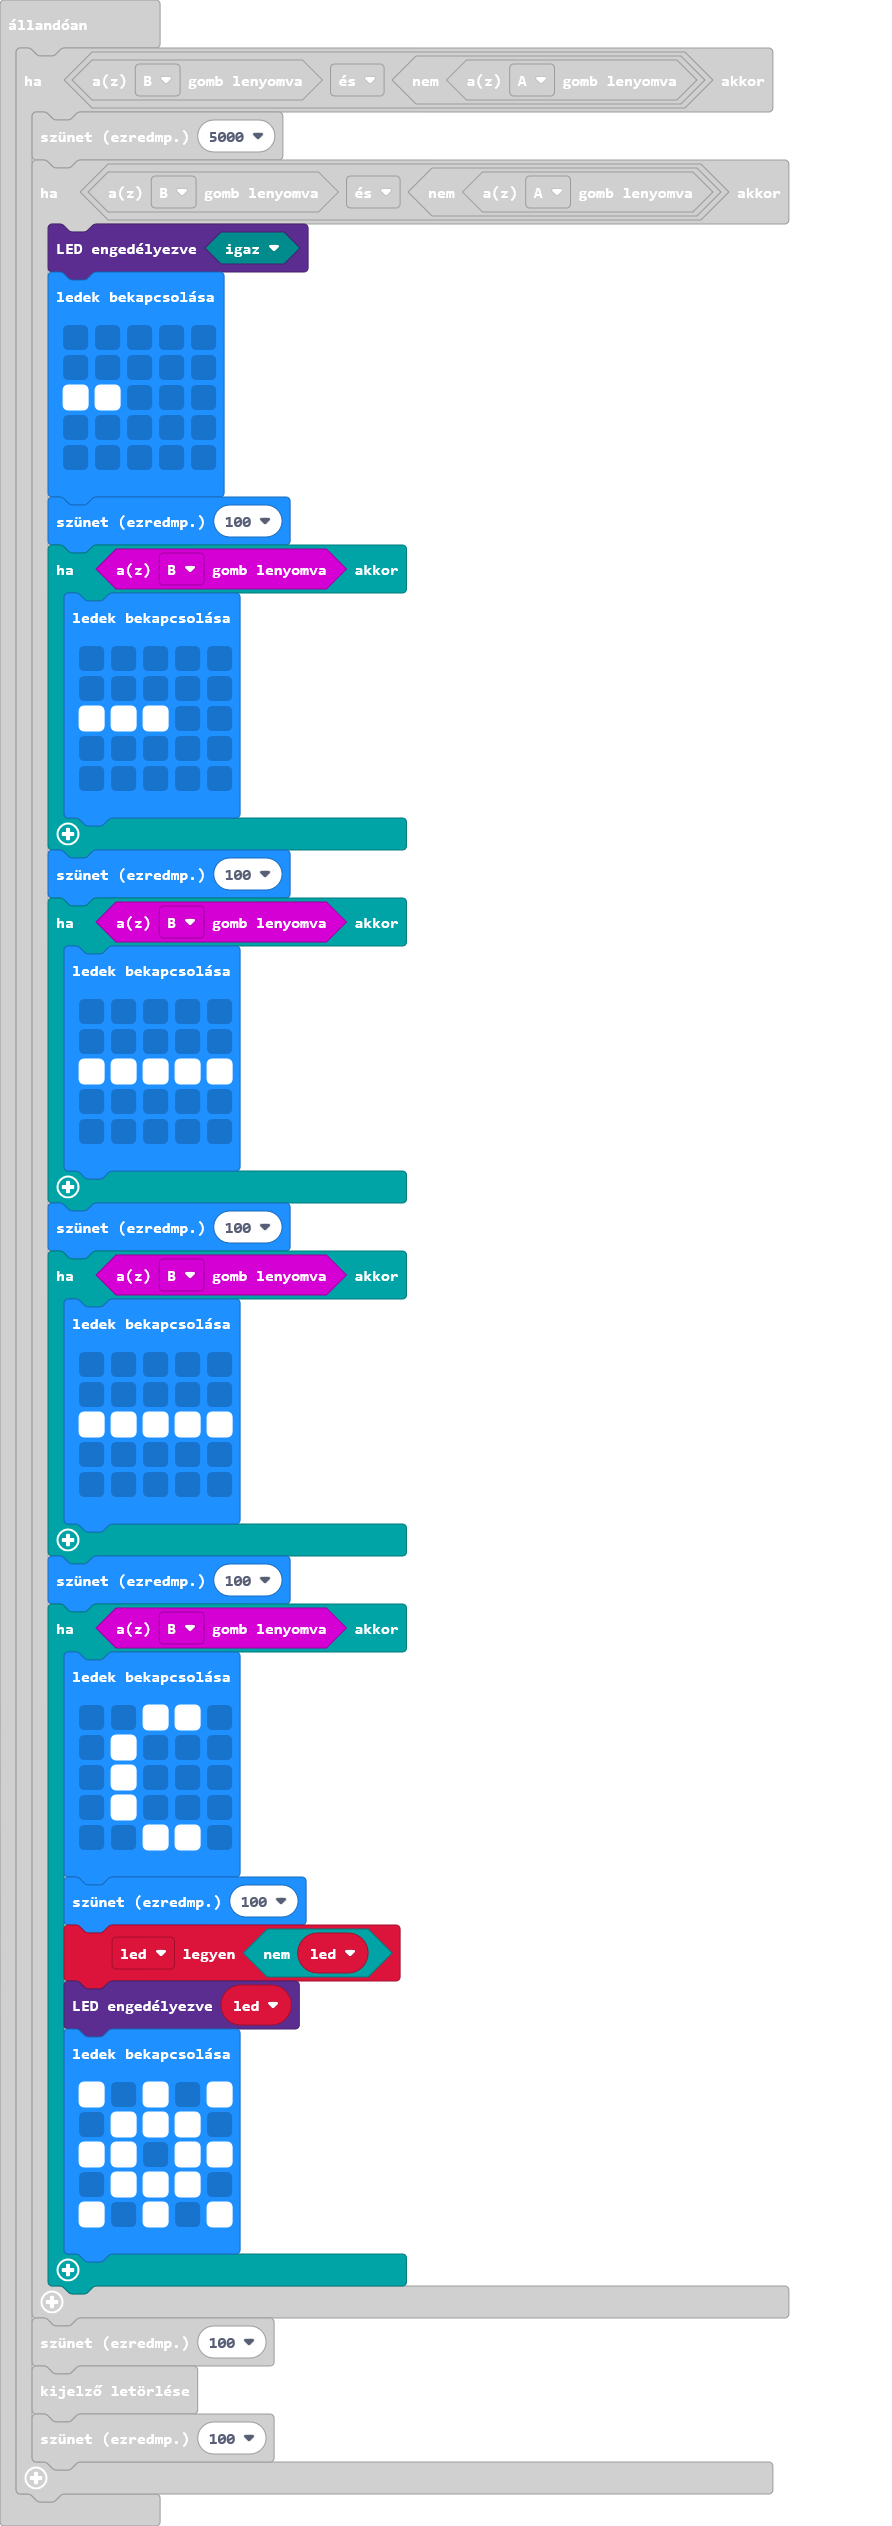
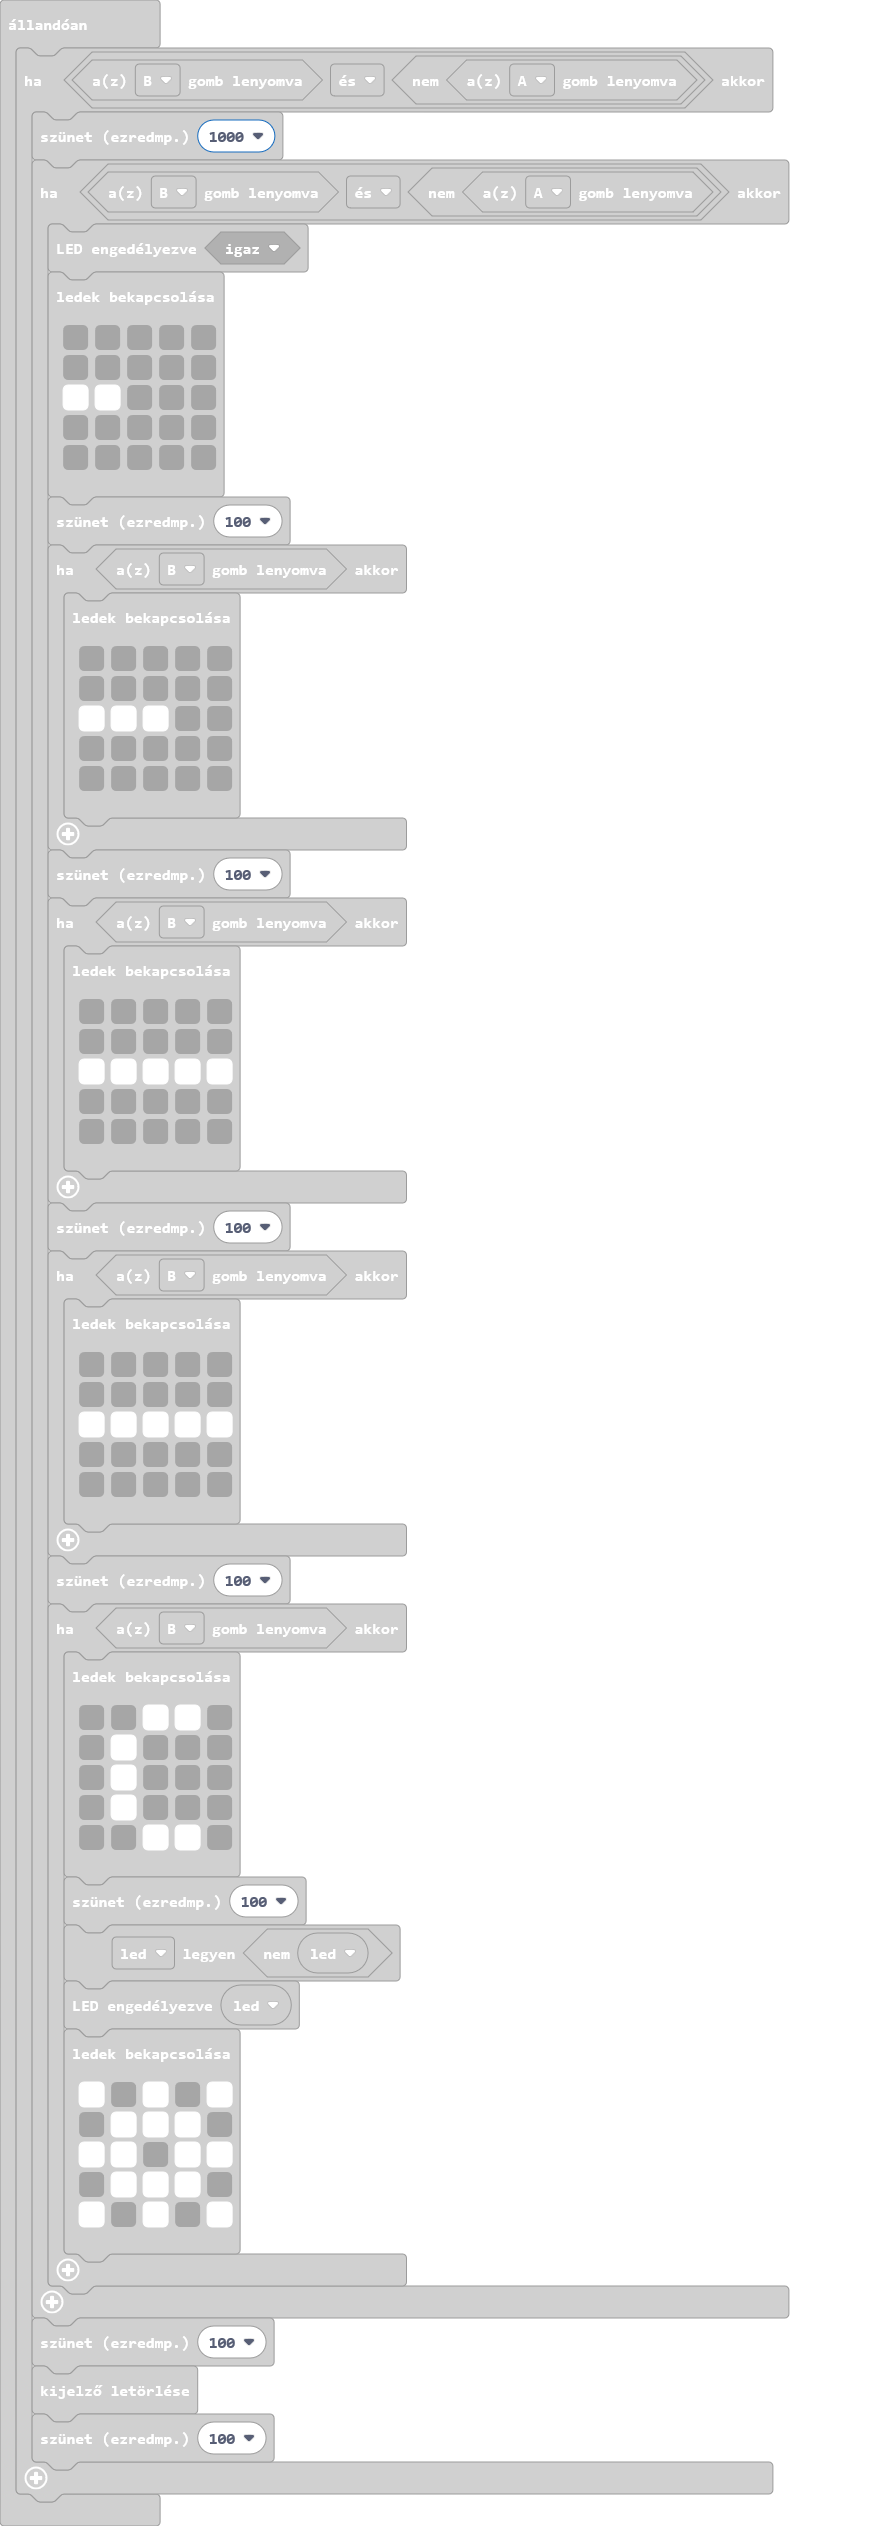
Update main.blocks, main.ts

Changed region(s): [[0.0303, 0.0618, 0.454, 0.9264]]

diff --git a/main.ts b/main.ts
@@ -110,7 +110,7 @@ while (!(input.buttonIsPressed(Button.A))) {
 }
 basic.forever(function () {
     if (input.buttonIsPressed(Button.B) && !(input.buttonIsPressed(Button.A))) {
-        basic.pause(5000)
+        basic.pause(1000)
         if (input.buttonIsPressed(Button.B) && !(input.buttonIsPressed(Button.A))) {
             led.enable(true)
             basic.showLeds(`
